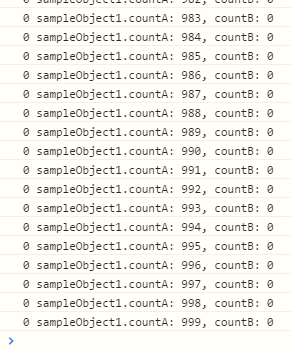
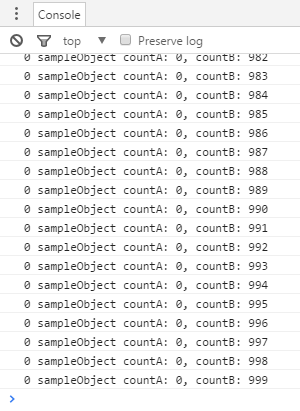
・文章、コードの細かい修正

Changed region(s): [[0.0309, 0.0, 0.9588, 0.9402], [0.0309, 0.9687, 0.0619, 0.9972]]

diff --git a/tips/tips_core/recycling.ts b/tips/tips_core/recycling.ts
@@ -6,13 +6,15 @@ interface IRecyclableObject {
 
 class RecyclePool<T extends IRecyclableObject> {
 
+    protected objectType: any;
     protected objectList: List<T> = null;
     protected objectCount: int;
 
-    constructor(protected objectType, poolSize: int) {
+    constructor(objectType: any, poolSize: int) {
+
+        this.objectType = objectType;
 
         this.allocate(poolSize);
-        this.reset();
 
         return this;
     }
@@ -22,18 +24,15 @@ class RecyclePool<T extends IRecyclableObject> {
         this.objectList = new List<T>(poolSize);
 
         for (var i = 0; i < poolSize; i++) {
-            this.objectList[i] = this.createObject(i);
+
+            var obj = <T>(new this.objectType());
+            obj.recycleIndex = i;
+            obj.recycle();
+
+            this.objectList[i] = obj;
         }
 
         this.reset();
-    }
-
-    protected createObject(recycleIndex: int): T {
-
-        var obj = <T>(new this.objectType());
-        obj.recycleIndex = recycleIndex;
-        obj.recycle();
-        return obj;
     }
 
     free() {

diff --git a/tips/bin/object_pooling/main.js b/tips/bin/object_pooling/main.js
@@ -20,7 +20,7 @@ var ObjectPooling;
                 if (sampleObject == null) {
                     return;
                 }
-                console.log(sampleObject.recycleIndex + ' sampleObject1.countA: ' + sampleObject.countA + ', countB: ' + sampleObject.countB);
+                console.log(sampleObject.recycleIndex + ' sampleObject countA: ' + sampleObject.countA + ', countB: ' + sampleObject.countB);
                 sampleObject.countA++;
                 sampleObject.countB++;
                 sampleObjectPool.recycle(sampleObject);

diff --git a/tips/object_pooling/main.ts b/tips/object_pooling/main.ts
@@ -27,7 +27,7 @@ namespace ObjectPooling {
                     return;
                 }
 
-                console.log(sampleObject.recycleIndex + ' sampleObject1.countA: ' + sampleObject.countA + ', countB: ' + sampleObject.countB);
+                console.log(sampleObject.recycleIndex + ' sampleObject countA: ' + sampleObject.countA + ', countB: ' + sampleObject.countB);
 
                 sampleObject.countA++;
                 sampleObject.countB++;

diff --git a/tips/object_pooling/README.md b/tips/object_pooling/README.md
@@ -3,7 +3,12 @@
 ## 概要
 メモリ管理手法であるオブジェクト・プーリングのTypeScriptでの実装について説明します。
 
-[サンプルコード main.ts](./main.ts)
+ソースコード
+
+- [サンプルコード main.ts](./main.ts)
+- [リサイクル処理 recycling.ts](../tips_core/recycling.ts)
+
+![](object_pooling_fig001.png)
 
 ## オブジェクト・プーリング
 オブジェクト・プーリングは、メモリの断片化やガーベージコレクションの発生によるパフォーマンスの低下を解決したり軽減するための手法です。ゲーム「トリノワールド」では描画オブジェクトや弾、エフェクト等のために使用しています。
@@ -13,17 +18,25 @@
 - 先に必要数のオブジェクトをまとめて生成し、プール（リストや配列）に入れておく
 - 新しいオブジェクトはプールから取得する
 - 不要になったオブジェクトはプールに返却する
-- プールを破棄するときプールのオブジェクトをまとめて破棄する
+- プールを破棄するときオブジェクトをまとめて破棄する
 
-## TypeScriptによる実装
-TypeScriptのジェネリクスの機能を利用した基本クラス RecyclePool&lt;T&gt; を [recycling.ts](../tips_core/recycling.ts) に作成しました。このクラスを使うと、クラスと個数を指定してプールを作成できます。
+## TypeScriptによるプールの実装
+
+### RecyclePool&lt;T&gt;
+
+TypeScriptのジェネリクスの機能を利用した基本クラス RecyclePool&lt;T&gt; が [recycling.ts](../tips_core/recycling.ts) にあります。このクラスを使うと、クラスと個数を指定してプールを生成できます。
+
+プールの生成はC#など他の言語と比べ若干特殊な記述になるため、次の例で説明します。
 
 ```recycling.ts
 var sampleObjectPool = new RecyclePool<SampleObject>(SampleObject, 50);
 ```
+これは容量50のSampleObjectのプールを生成するコードです。new RecyclePoolの後にTypeScriptの型情報として&lt;SampleObject&gt;を記述し、かつコンストラクタの引数にSampleObject（JavaScriptの関数オブジェクト）を与えています。コンストラクタに与えられたSampleObjectは、プール内部でオブジェクトを生成する際、newをする関数オブジェクトとして使用されます。
 
-RecyclePool&lt;T&gt; の T には IRecyclableObject インターフェースを実装したクラスを指定できます。
+なお、RecyclePool&lt;T&gt; の T には IRecyclableObject インターフェースを実装したクラスを指定できます。
 そのため recycleIndex と recycle関数 を持つクラスであれば、どんなクラスでも指定できます。
+
+### IRecyclableObject
 
 ```ts:recycling.ts
 interface IRecyclableObject {
@@ -33,12 +46,12 @@ interface IRecyclableObject {
 ```
 
 
-recycleIndex は RecyclePool が再利用処理を素早く行うための変数です。この変数を再利用処理以外の何かの目的に使用することはできません。
+recycleIndex は RecyclePool が再利用処理を効率よく行うための変数です。この変数はRecyclePool以外の場所では使用しないようにしてください。
 
-recycle関数はオブジェクトを初期化するために RecyclePool から実行される関数です。
+recycle関数はオブジェクトを初期化するために RecyclePool から実行される関数です。この関数に各クラスの固有の初期化処理を記述することになります。
 
 ## サンプルコード
-サンプルコードでは次のクラスをオブジェクト・プーリングの対象としています。
+サンプルコードではSampleObjectクラスをオブジェクト・プーリングの対象とし、プールからオブジェクトを取り出し、メンバ変数を変更し、すぐにオブジェクトを破棄（再利用）する処理を1000回繰り返します。
 
 ```ts:main.ts
 class SampleObject implements IRecyclableObject {
@@ -46,16 +59,13 @@ class SampleObject implements IRecyclableObject {
     recycleIndex: int;
     recycle() {
 
-        this.count = 0;
+        this.countA = 0;
     }
 
-    count = 0;
+    countA = 0;
+    countB = 0;
 }
-```
 
-recycle関数はオブジェクトを初期化するために実行されます。サンプルコードではrecycle関数でcountメンバ変数を0に初期化しています。countメンバ変数はMainクラスで値が変更されますが、オブジェクトが再利用されるたびにrecycle関数内で0に初期化されるため、コンソールには常に0が出力されます。
-
-```ts:main.ts
 class Main {
 
     run() {
@@ -64,20 +74,29 @@ class Main {
 
         for (var i = 0; i < 1000; i++) {
 
-            var sampleObject1 = sampleObjectPool.get();
+            var sampleObject = sampleObjectPool.get();
 
-            if (sampleObject1 == null) {
+            if (sampleObject == null) {
                 return;
             }
 
-            console.log("sampleObject1.count = " + sampleObject1.count);
+            console.log(sampleObject recycleIndex + ' sampleObject1.countA: ' + sampleObject.countA + ', countB: ' + sampleObject.countB);
 
-            sampleObject1.count++;
+            sampleObject.countA++;
+            sampleObject.countB++;
 
-            sampleObjectPool.recycle(sampleObject1);
+            sampleObjectPool.recycle(sampleObject);
         }
 
         sampleObjectPool.free();
     }
 }
 ```
+
+SampleObjectにはcountA、countBというメンバ変数があります。countAはrecycle関数に0を代入している記述がありますがcountBはありません。
+
+実行すると、countAはオブジェクトが再利用されるたびにrecycle関数内で0に初期化されるため、コンソールには常に0が出力されます。
+
+一方でcountBは加算され続け、コンソールには最終的に999が出力されます。プールからオブジェクトを取り出す処理は1000回行われても、実際に使用されるオブジェクトはプール内の最初の１つだけであり、再利用されていることが分かります。
+
+![](object_pooling_fig001.png)
